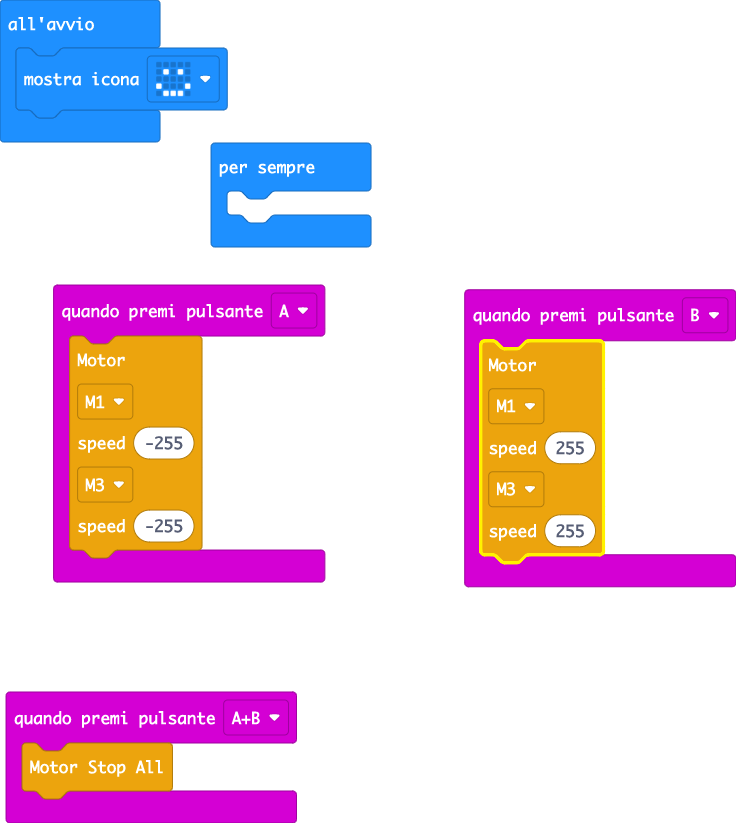
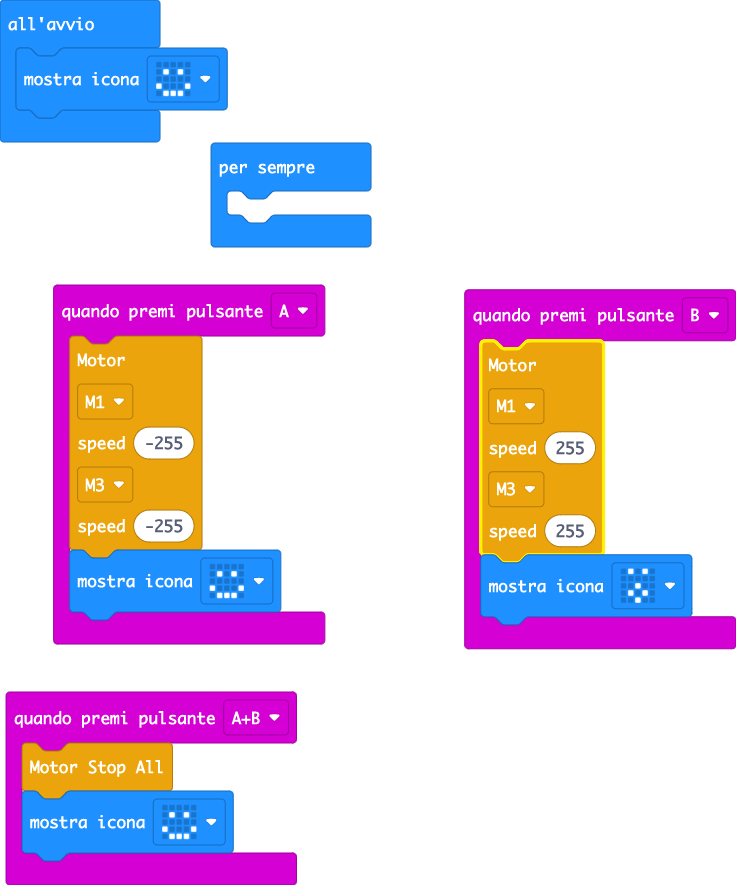
Aggiorna main.blocks, main.ts

Changed region(s): [[0.0, 0.0, 0.5312, 0.729], [0.625, 0.3038, 1.0, 0.7594], [0.0, 0.7594, 0.4062, 0.9721]]

diff --git a/main.ts b/main.ts
@@ -5,9 +5,11 @@ input.onButtonPressed(Button.A, function () {
     SuperBit.enMotors.M3,
     -255
     )
+    basic.showIcon(IconNames.Happy)
 })
 input.onButtonPressed(Button.AB, function () {
     SuperBit.MotorStopAll()
+    basic.showIcon(IconNames.Happy)
 })
 input.onButtonPressed(Button.B, function () {
     SuperBit.MotorRunDual(
@@ -16,6 +18,7 @@ input.onButtonPressed(Button.B, function () {
     SuperBit.enMotors.M3,
     255
     )
+    basic.showIcon(IconNames.Surprised)
 })
 basic.showIcon(IconNames.Happy)
 basic.forever(function () {
